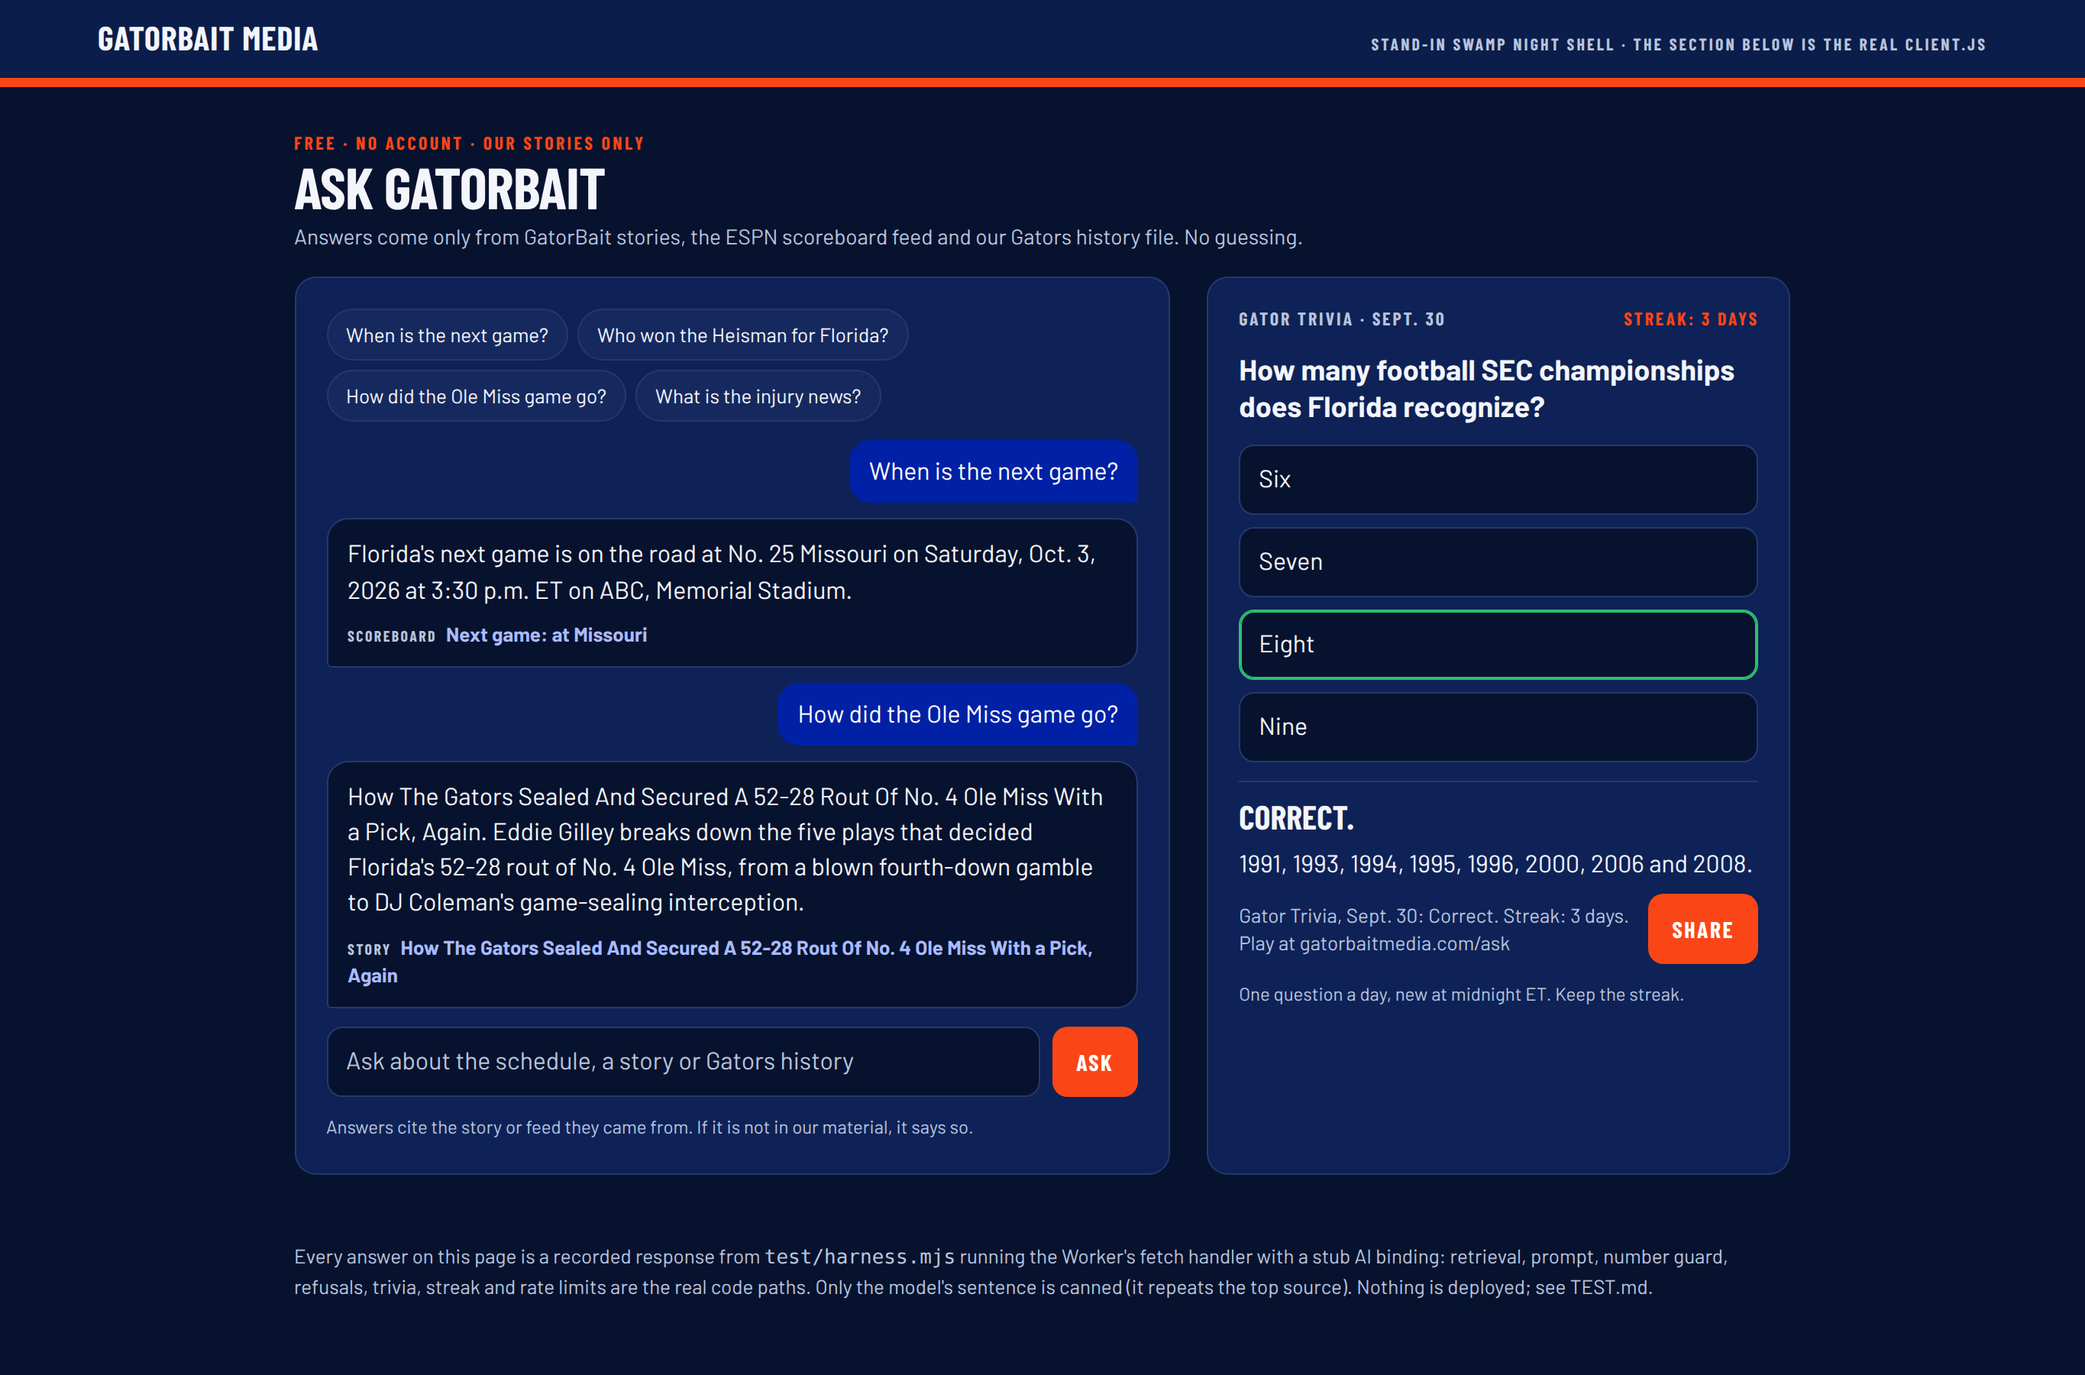
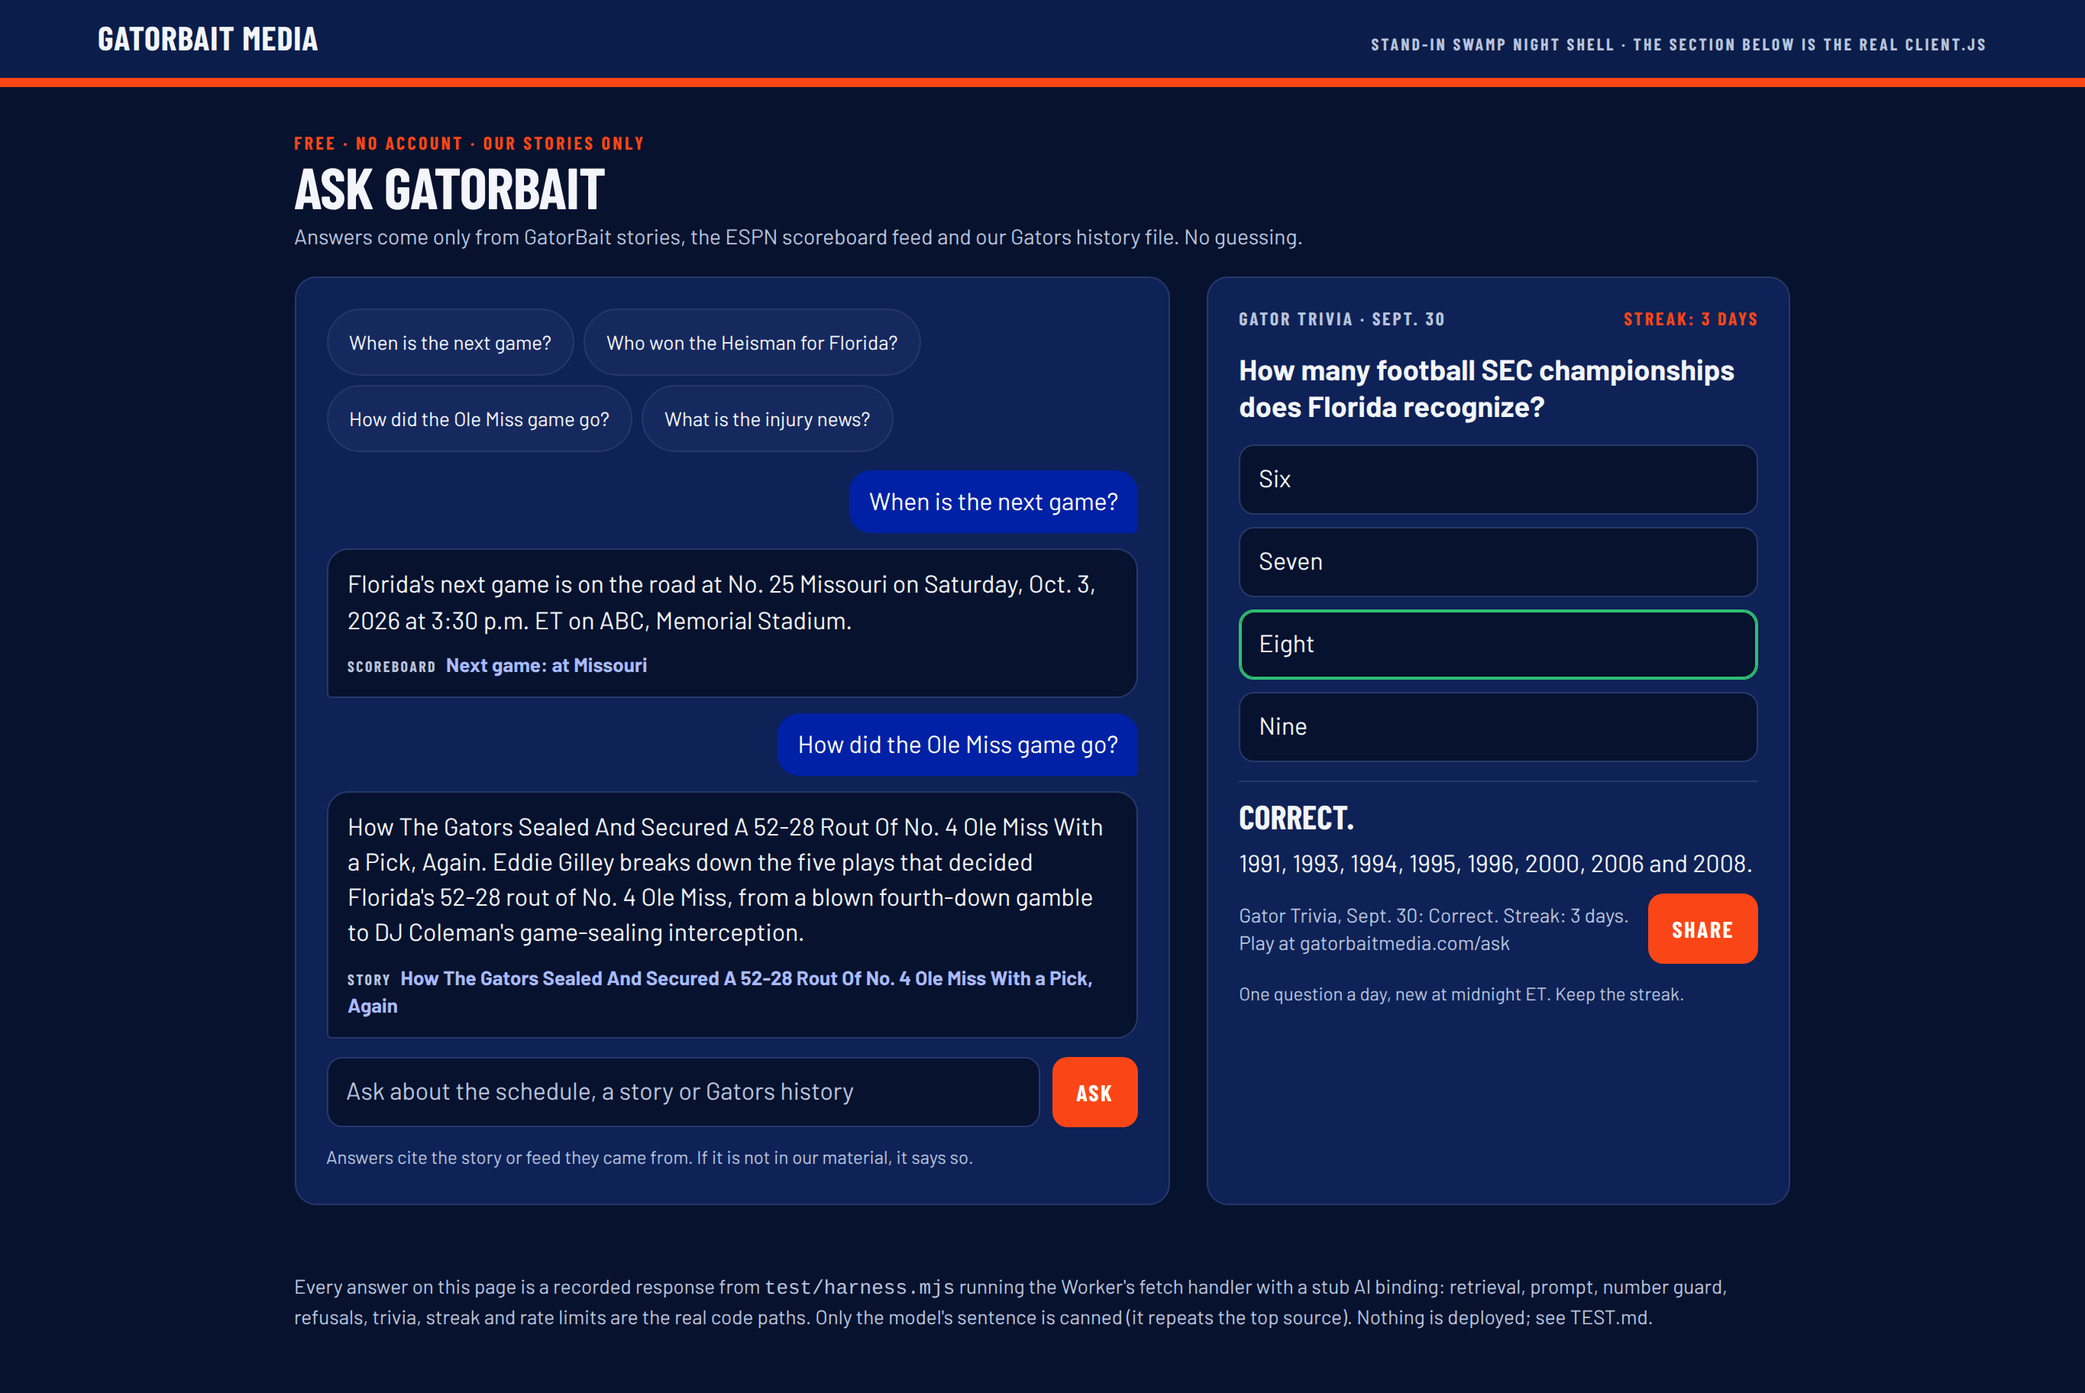
Department ideas, round two: AI desk ships Ask GatorBait, a grounded Gators Q&A and daily trivia on Cloudflare Workers AI
Worker retrieves from a prebuilt index of stories, scoreboard and cited history, refuses any number not in its sources, gates off-topic questions before any model call, rate-limits by salted hash, and runs daily trivia with streaks in KV. 28 harness checks pass; Playwright shots at 390 and 1365. Cloudflare account reachable, no Workers deployed yet.

Claude-Session: https://claude.ai/code/session_01QUnBu7zkHLGEmUEfSvE4Wp

diff --git a/deploy/dept-ideas/ai/client.js b/deploy/dept-ideas/ai/client.js
@@ -14,7 +14,7 @@
     '.fp-ask-kicker{margin:0;font:700 12px/1.3 var(--ask-cond);letter-spacing:.14em;text-transform:uppercase;color:var(--ask-orange)}.fp-ask-title{margin:0;font:800 30px/1 var(--ask-cond);letter-spacing:-.01em;text-transform:uppercase}.fp-ask-sub{margin:4px 0 0;font-size:14px;color:var(--ask-ink-2)}' +
     '.fp-ask-tabs{display:flex;gap:6px;padding:0;margin:0;list-style:none}.fp-ask-tab{flex:1;min-height:44px;border:1px solid var(--ask-rule);border-radius:10px;background:var(--ask-chip);color:var(--ask-ink);font:700 15px/1 var(--ask-cond);letter-spacing:.08em;text-transform:uppercase;cursor:pointer}.fp-ask-tab[aria-selected=true]{background:var(--ask-orange);border-color:var(--ask-orange);color:#fff}' +
     '.fp-ask-grid{display:grid;gap:16px}.fp-ask-pane{display:none;background:var(--ask-card);border:1px solid var(--ask-rule);border-radius:14px;padding:16px;min-width:0}.fp-ask-pane[data-on]{display:grid;gap:12px;align-content:start}' +
-    '.fp-ask-chips{display:flex;flex-wrap:wrap;gap:6px}.fp-ask-chip{border:1px solid var(--ask-rule);border-radius:999px;background:var(--ask-chip);color:var(--ask-ink);font:500 13px/1 var(--ask-sans);padding:9px 12px;min-height:34px;cursor:pointer}' +
+    '.fp-ask-chips{display:flex;flex-wrap:wrap;gap:6px}.fp-ask-chip{border:1px solid var(--ask-rule);border-radius:999px;background:var(--ask-chip);color:var(--ask-ink);font:500 13px/1 var(--ask-sans);padding:10px 14px;min-height:44px;cursor:pointer}' +
     '.fp-ask-form{display:grid;grid-template-columns:minmax(0,1fr) auto;gap:8px}.fp-ask-input{min-height:46px;width:100%;border:1px solid var(--ask-rule);border-radius:10px;background:var(--ask-band);color:var(--ask-ink);font:400 16px/1.3 var(--ask-sans);padding:10px 12px}.fp-ask-input::placeholder{color:var(--ask-ink-2)}' +
     '.fp-ask-btn{min-height:46px;border:0;border-radius:10px;background:var(--ask-orange);color:#fff;font:700 15px/1 var(--ask-cond);letter-spacing:.08em;text-transform:uppercase;padding:0 16px;cursor:pointer}.fp-ask-btn[disabled]{opacity:.6;cursor:wait}' +
     '.fp-ask-log{display:grid;gap:10px;margin:0;padding:0;list-style:none}.fp-ask-q{justify-self:end;max-width:92%;background:var(--ask-navy);color:#fff;border-radius:14px 14px 3px 14px;padding:9px 13px;font-weight:500}.fp-ask-a{max-width:100%;background:var(--ask-band);border:1px solid var(--ask-rule);border-radius:14px 14px 14px 3px;padding:11px 13px}.fp-ask-a p{margin:0}.fp-ask-a[data-refused] p{color:var(--ask-ink-2)}' +

diff --git a/deploy/dept-ideas/ai/TEST.md b/deploy/dept-ideas/ai/TEST.md
@@ -1,0 +1,99 @@
+# Ask GatorBait: local test record (Sept. 30, 2026)
+
+Nothing was deployed. No Wix, Cloudflare, GitHub or email writes.
+
+## 1. Cloudflare access (read-only MCP calls)
+
+| Call | Result |
+|---|---|
+| `mcp__Cloudflare_Developer_Platform__workers_list` | `{"workers":[],"count":0}` (no Workers in the account yet) |
+| `mcp__Cloudflare_Developer_Platform__kv_namespaces_list` | one namespace: `GATORBAIT_SOCIAL_KV`, id `b2b1b70ae87047d6ac380b9a839780ef` |
+
+Workers AI needs no API key on the account; the `[ai] binding = "AI"` in `wrangler.toml` is all the Worker uses. The KV namespace for this Worker (`ASK_GATORBAIT_KV`) is not created; `wrangler.toml` carries a placeholder id.
+
+## 2. Build the index
+
+```
+$ node deploy/dept-ideas/ai/build-index.mjs
+index.json: 20 stories, 16 scoreboard docs, 15 history facts, 16 trivia questions, 535 terms
+```
+
+Inputs: `gazette-live/posts.json` (20 stories, title + excerpt + author + date only), `sports-live/scoreboard.json` (record, next game, 12 games, quarter scores, SEC standings), `history.json` (15 cited facts, 12 curated trivia questions; 4 more score questions are generated from finals in the feed).
+
+## 3. `wrangler dev` (wrangler 4.144.0, local)
+
+`wrangler dev` started, resolved the bindings and then refused because Workers AI is a remote-only binding:
+
+```
+Binding                                       Resource        Mode
+env.ASK_KV (REPLACE_WITH_NEW_NAMESPACE_ID)    KV Namespace    local
+env.AI                                        AI              remote
+⎔ Establishing remote connection...
+✘ [ERROR] Failed to start the remote proxy session. Error reloading remote server: In a non-interactive
+environment, it's necessary to set a CLOUDFLARE_API_TOKEN environment variable for wrangler to work.
+[agent-proxy] workers.cloudflare.com:443 — connect_rejected (organization policy)
+```
+
+So Workers AI cannot run offline here (expected). The Worker's fetch handler was therefore run in Node with a stub AI binding and an in-memory KV, which exercises every real code path except the model call itself.
+
+## 4. Node harness (`test/harness.mjs`)
+
+The stub model reads the numbered sources out of the real prompt and answers from source [1]; two extra modes return a hallucinated stat and a refusal. Clock fixed at Wed., Sept. 30, 2026, 10 a.m. ET.
+
+```
+$ node deploy/dept-ideas/ai/test/harness.mjs
+PASS  GET /health  -> 20 stories, 16 scoreboard, 15 history, 16 trivia
+PASS  OPTIONS preflight from gatorbaitmedia.com  -> https://www.gatorbaitmedia.com
+PASS  POST /ask from a foreign origin is refused  -> status 403
+PASS  DEV_ORIGINS allows a local origin  -> http://localhost:8788
+PASS  retrieve() ranks the scoreboard "next game" doc first  -> sb:next:9.25, story:put-down-the-poll-gators-missouri-is-waiting-and-there-s-a-new-definition-for-one-game-at-a-time:4.27, story:postgame-analysis-florida-gators-52-ole-miss-rebel-28:3.76, story:bound-for-the-cfb-top-ten-cue-up-happy-days-are-here-again:2.45, hist:swamp:2.39
+PASS  prompt contains only the numbered sources + the grounding rule
+PASS  history retrieval: Heisman 2007 -> Tebow fact
+PASS  story retrieval: injury question -> MRI story  -> story:breaking-vernell-brown-mri-grade-1-pcl-sprain-florida-gators
+PASS  POST /ask "When is the next game?"  -> Florida's next game is on the road at No. 25 Missouri on Saturday, Oct. 3, 2026 at 3:30 p.… | source: Next game: at Missouri
+PASS  POST /ask "Who won the Heisman for Florida?"  -> Danny Wuerffel won the Heisman Trophy in 1996, the same season Florida won its first natio… | source: Heisman Trophy Danny Wuerffel 1996
+PASS  POST /ask "How did the Ole Miss game go?"  -> How The Gators Sealed And Secured A 52-28 Rout Of No. 4 Ole Miss With a Pick, Again. Eddie… | source: How The Gators Sealed And Secured A 52-28 Rout Of No. 4 Ole Miss With a Pick, Again
+PASS  POST /ask "What is the injury news?"  -> BREAKING: MRI Confirms Grade 1 PCL Sprain for Gators WR Vernell Brown III. An MRI confirme… | source: BREAKING: MRI Confirms Grade 1 PCL Sprain for Gators WR Vernell Brown III
+PASS  POST /ask "How many national championships does Florida have?"  -> Florida won the 2008 BCS National Championship, beating Oklahoma 24-14 on Jan. 8, 2009, in… | source: national championship 2008
+PASS  number guard rejects "412 yards" (not in any source)  -> unsourced-number
+PASS  model refusal is passed through as a refusal
+PASS  off-topic question refused with NO model call  -> no-sources; top hit coverage 0.33
+PASS  guardAnswer accepts figures that are in the sources
+PASS  too-short question -> 400
+PASS  GET /trivia/today  -> How many football SEC championships does Florida recognize?
+PASS  same question all day (KV trivia:2026-09-30)  -> t-sec-count
+PASS  streak from yesterday carries into today  -> streak 2
+PASS  POST /trivia/answer correct -> streak 3 + share line  -> Gator Trivia, Sept. 30: Correct. Streak: 3 days. Play at gatorbaitmedia.com/ask
+PASS  second answer the same day does not change the result
+PASS  wrong answer (other visitor) -> streak 0  -> Gator Trivia, Sept. 30: Missed it. Streak: 0 days. Play at gatorbaitmedia.com/ask
+PASS  out-of-range choice -> 400
+PASS  9th /ask in a minute from one IP -> 429  -> Retry-After 60
+PASS  a different IP is unaffected
+PASS  KV keys never contain a raw IP
+
+28 passed, 0 failed. Model calls made to the stub: 17. KV keys: 18.
+```
+
+What that proves, end to end:
+- **Retrieval**: BM25 over `index.json` with a small synonym map and a 14-day recency boost for stories. "Next game" hits the scoreboard doc first; "Heisman 2007" hits the Tebow fact; "Vernell Brown" hits the MRI story.
+- **Grounding**: the prompt contains only the numbered sources plus the rule to answer from them or refuse. A **number guard** rejects any figure in the model's answer that is not in the retrieved sources ("412 yards" was thrown out). A **coverage gate** refuses without calling the model when fewer than half the question's words appear in the top source ("best pizza in Gainesville": 0 model calls).
+- **Trivia**: one question per ET day, deterministic pick stored under `trivia:<ymd>` (editors can overwrite it in KV), one answer per visitor per day, streak carried from yesterday, share line `Gator Trivia, Sept. 30: Correct. Streak: 3 days. Play at gatorbaitmedia.com/ask`.
+- **Rate limits**: 8 asks a minute and 60 a day per salted-hashed IP (429 + Retry-After); no raw IP ever lands in KV.
+- **CORS**: preflight for gatorbaitmedia.com, 403 for a foreign origin, `DEV_ORIGINS` for local work.
+
+## 5. Client screenshots (Playwright, chromium)
+
+`preview.html` mounts the real `client.js` in a stand-in Swamp Night shell and replays `recorded.json` (the harness's actual responses) through `window.__GBM_ASK_TRANSPORT__`.
+
+```
+$ NODE_PATH=<scratchpad>/node_modules node deploy/dept-ideas/ai/test/shots.mjs
+390-ask: section 390x994, horizontal overflow: false, answers on page: 2
+390-trivia: section 390x765, horizontal overflow: false, answers on page: 2
+1365: section 1365x747, horizontal overflow: false, answers on page: 2
+```
+
+Also checked at 320, 390 and 430: no horizontal overflow, input font 16px (no iOS zoom), share line renders. Shots: `shots/390-ask.png`, `shots/390-trivia.png`, `shots/1365.png`.
+
+## Not proven here
+- The live model's tone and citation discipline (needs one deployed run with `@cf/meta/llama-3.1-8b-instruct`).
+- KV counters are eventually consistent, so the per-minute limit is soft; a Durable Object or the Rate Limiting binding would make it exact.

diff --git a/deploy/dept-ideas/ai/PITCH.md b/deploy/dept-ideas/ai/PITCH.md
@@ -1,0 +1,40 @@
+# Ask GatorBait
+
+## The idea
+A free chat box on gatorbaitmedia.com, no account, that answers Gators questions from our own material and nothing else: the story feed (`gazette-live/posts.json`), the ESPN scoreboard feed (`sports-live/scoreboard.json`) and a small, cited Gators history file. Every answer links the story or feed it came from. If the question is not covered, it says so instead of guessing. Next to it, **Gator Trivia**: one question a day, a streak, and a one-line result you can paste into the group chat.
+
+It runs on Cloudflare Workers AI (`@cf/meta/llama-3.1-8b-instruct` through the AI binding, no API key) with one KV namespace for the daily question, per-visitor trivia state and rate limits. The client is one section (`.fp-ask`) that drops into the existing `#gbm-live` shell after The Tunnel, in Barlow and the Swamp Night tokens, phone-first.
+
+Brenden's words: "That one AI chat out on like the site that would answer questions or like provide like a trivia question." This is that, built to the benchmark's Big Red Chat line (free, no account, knows the team), with the guardrails a publication needs.
+
+## Why it matters
+- **It turns the archive into a front door.** A fan asks "what's the injury news?" and gets the Vernell Brown MRI story with a link; "when's the next game?" gets Missouri, Sat., Oct. 3, 3:30 p.m. ET, ABC, with the first-look story. Every answer is a click into our own reporting.
+- **A daily reason to come back.** One trivia question at midnight ET, a streak to protect, a share line that carries `gatorbaitmedia.com/ask`. It costs nothing to keep running and the editors can swap tomorrow's question by writing one KV key.
+- **Trust is the product.** The paid sites sell insider access; we cannot outspend them, but we can be the Gators answer box that never invents a stat. The Worker enforces that in code (number guard, coverage gate, refusal text), not in a prompt alone.
+- **It uses what is already built.** The same two feeds that paint the homepage feed the index; `build-index.mjs` runs after the scoreboard and newsroom jobs and the answers stay current without anyone touching a model.
+
+## Evidence
+Tool calls (read-only, both made this session):
+- `mcp__Cloudflare_Developer_Platform__workers_list` → `{"workers":[],"count":0}`. The account has no Workers yet; Workers AI is available on the account plan with no key.
+- `mcp__Cloudflare_Developer_Platform__kv_namespaces_list` → one namespace, `GATORBAIT_SOCIAL_KV`, id `b2b1b70ae87047d6ac380b9a839780ef`. Not reused; this Worker wants its own `ASK_GATORBAIT_KV`.
+
+What was built and run (all in `deploy/dept-ideas/ai/`, details in `TEST.md`):
+- `build-index.mjs` ran: 20 stories, 16 scoreboard docs, 15 cited history facts, 16 trivia questions → `index.json`.
+- `worker.mjs`: `/ask`, `/trivia/today`, `/trivia/answer`, `/health`; BM25 retrieval, grounded prompt, number guard, coverage gate, per-IP limits (8/min, 60/day, salted hash only), CORS for gatorbaitmedia.com.
+- `wrangler dev` (4.144.0) resolved the AI and KV bindings, then refused because the AI binding is remote-only and needs `CLOUDFLARE_API_TOKEN` in a non-interactive shell (exact text in TEST.md). So the handler was run in Node with a stub AI binding: **28 of 28 checks passed**, including the guard throwing out a made-up "412 yards", an off-topic question refused with zero model calls, one-answer-per-day trivia with a 3-day streak and share line, and a 429 on the ninth ask in a minute.
+- `client.js` mounted in a stand-in Swamp Night shell against the recorded responses; Playwright shots at 390 (ask and trivia) and 1365 in `shots/`, no horizontal overflow at 320/390/430.
+- `history.json`: 15 facts, each with floridagators.com, ncaa.com, heisman.com or secsports.com sources (national titles 1996, 2006, 2008; Heismans Spurrier 1966, Wuerffel 1996, Tebow 2007; SEC titles; The Swamp; basketball 2006, 2007, 2025).
+
+## What it needs from Brenden
+1. **A yes on the surface.** Where it lives: under The Tunnel on the homepage (the client already mounts there) or a `/ask` page first. Recommendation: `/ask` page for a week, then the homepage slot.
+2. **Jarvis deploys it** (#34 scope): create `ASK_GATORBAIT_KV`, set the `HASH_SALT` secret, `wrangler deploy`, then paste the Worker URL into `window.__GBM_ASK_URL__` in the embed. One deploy, reversible by removing the embed.
+3. **Ten minutes with the live model** after deploy: ask the four suggested questions plus three traps ("who's starting at QB?", "what did Sumrall say about the poll?", "score prediction?") and read the refusals. Tone knobs are one line in `worker.mjs`.
+4. **Approve the history file.** Fifteen facts, all cited; add the ones you want (Buddy's era, the 1990s teams) and the trivia pool grows with them.
+5. **Re-run `build-index.mjs` in the feed workflow** so new stories are answerable within the newsroom refresh window; no new scheduler, one extra step in the existing job.
+
+## Risks
+- **Model tone drift.** Llama 3.1 8B can editorialize. Mitigation already in code: answers under 80 words, numbers must come from sources, refusal text is fixed, and the guard falls back to the refusal rather than a trimmed answer. Still needs one live read before the homepage.
+- **Thin material for some questions.** The index holds excerpts, not full articles, so "why did the fourth-down gamble fail?" gets the story link rather than the paragraph. Adding article bodies is a build-index change, not a Worker change, and worth doing after the excerpt version proves itself.
+- **Soft rate limits.** KV counters are eventually consistent; a burst could exceed 8/min briefly. Workers AI usage is capped by the account's free allowance, so the downside is a 503, not a bill. The Rate Limiting binding or a Durable Object makes it exact if traffic warrants.
+- **Trivia repeats.** Sixteen questions cycle in about two weeks. The pool grows with every history fact and every final score; a `trivia:<date>` KV key lets an editor plant a question for game week.
+- **Not a moderation surface.** It answers; it does not chat back and forth, store conversations or take names. That is deliberate; The Stands (chat) is a separate proposal.
